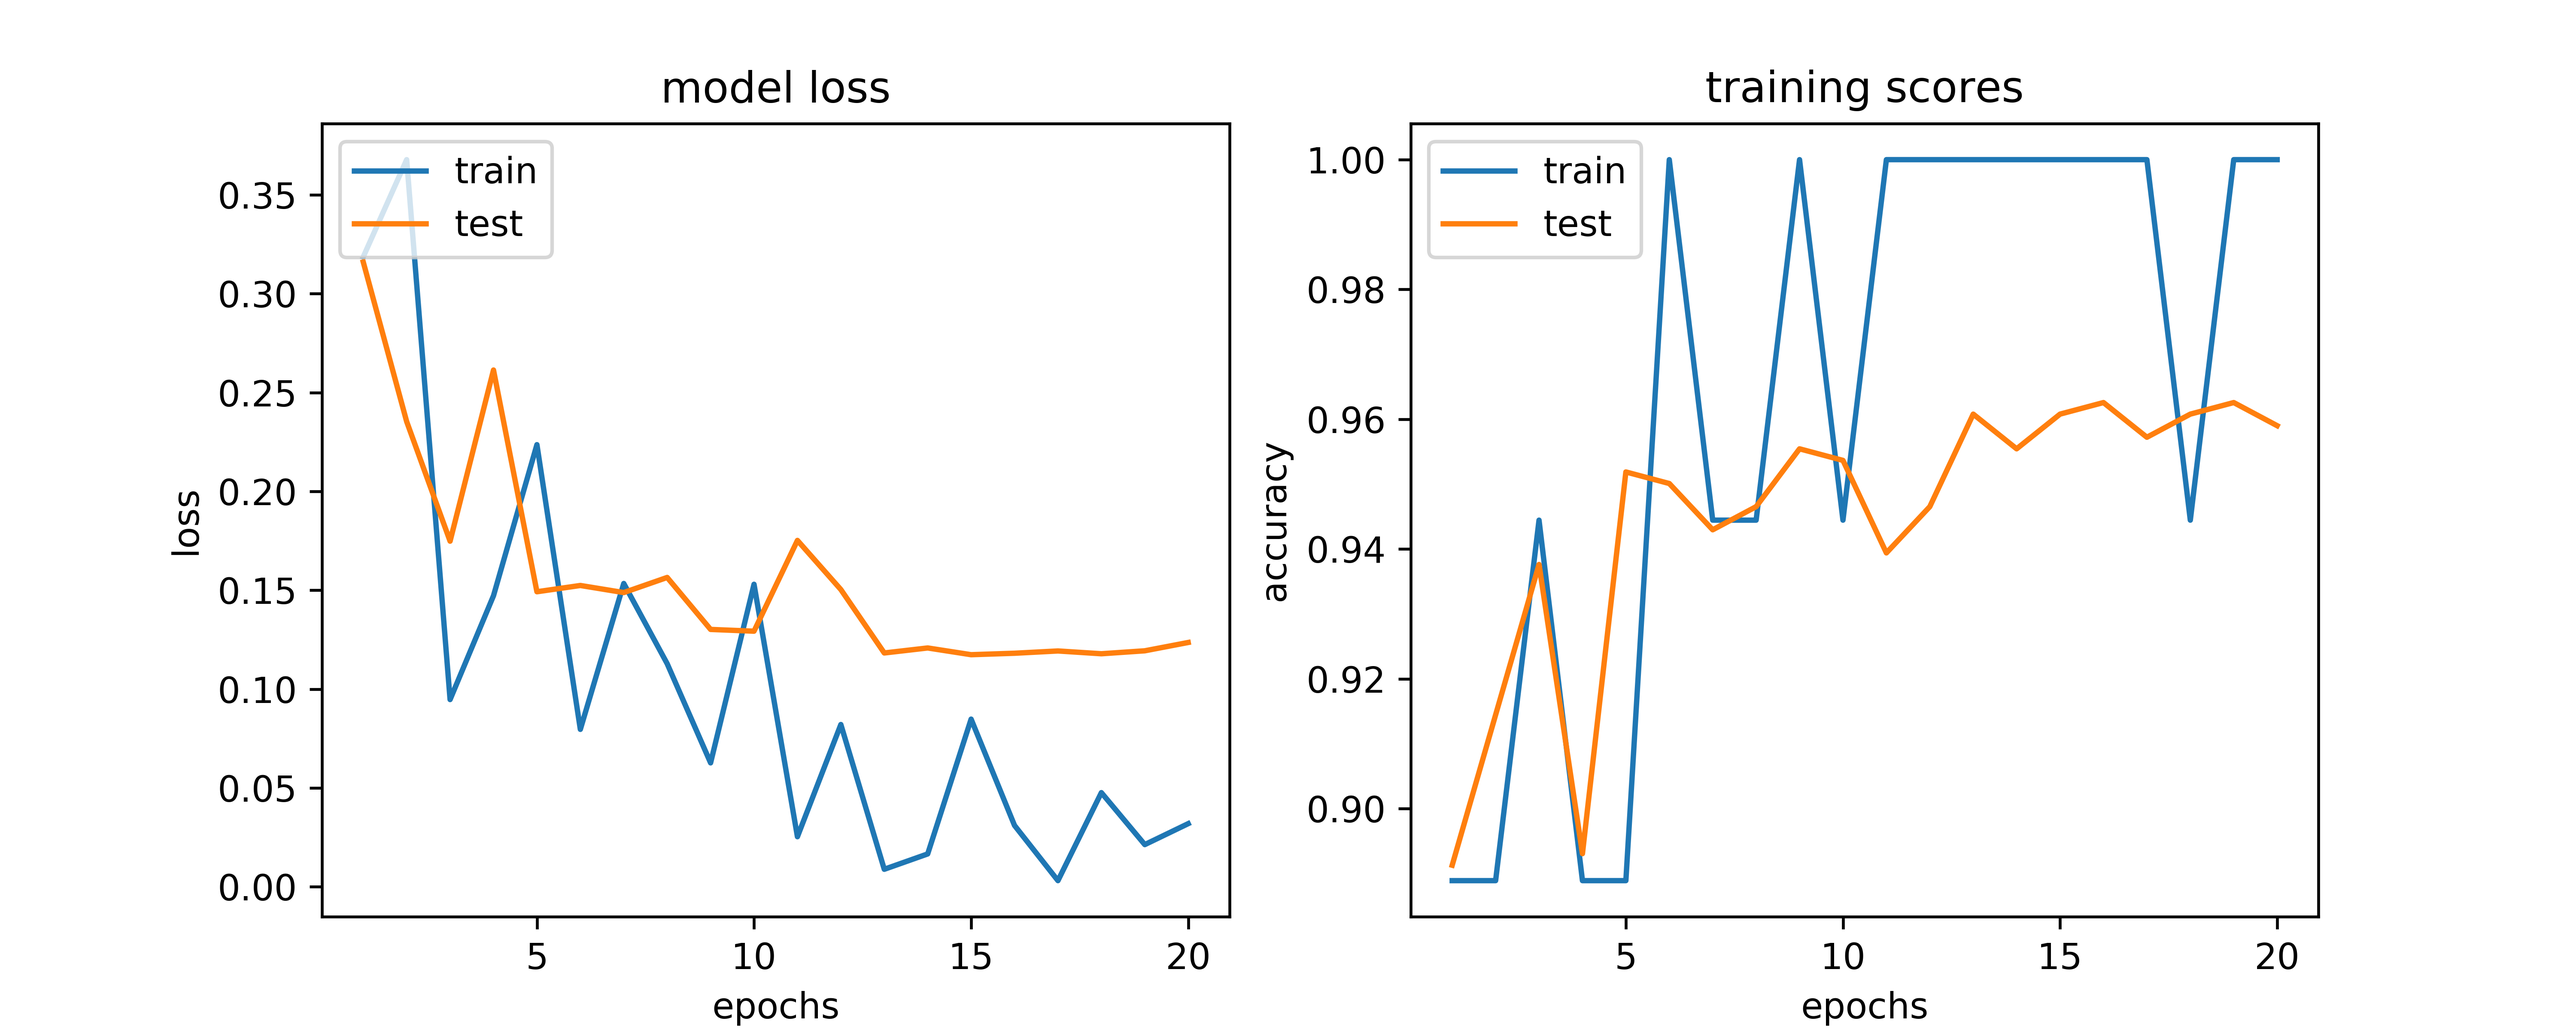
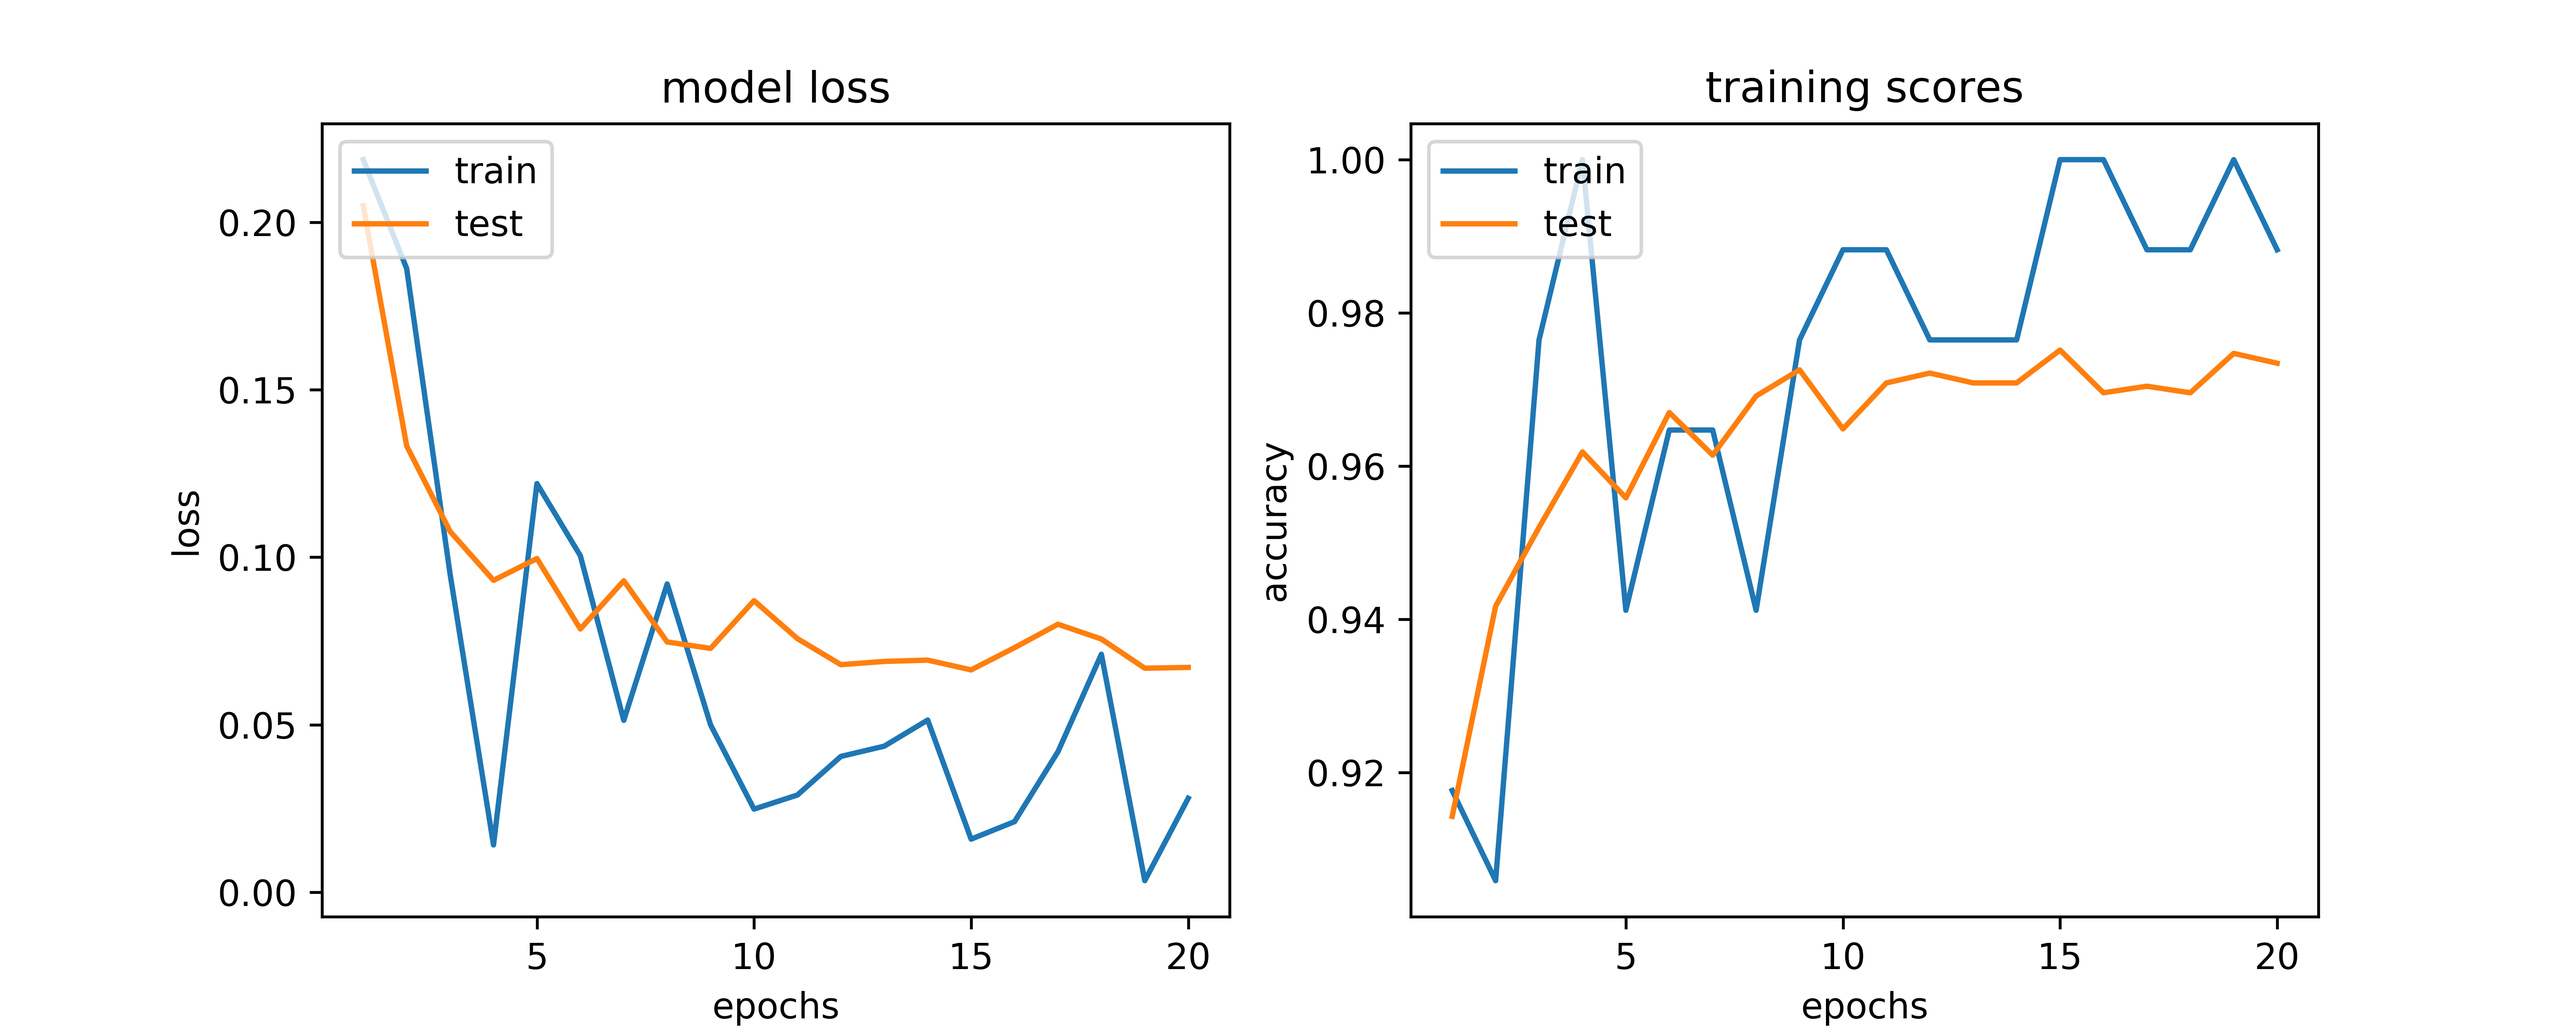
minor modifications to C3D

diff --git a/models/C3D/annotate-folder.py b/models/C3D/annotate-folder.py
@@ -7,6 +7,7 @@ from c3d_detector import C3D_detector
 from feature_extractor import FeatureExtractor
 
 LOG = True
+CLIP_LEN = 60
 
 ## Load C3D feature extractor
 extractor = FeatureExtractor('c3d_sports1m.h5')
@@ -16,7 +17,7 @@ classifier = BinaryClassifier()
 detector = C3D_detector(classifier, checkpoint='checkpoints/model_epoch19.pth')
 
 ## Obtain list of videos
-BASE_DIR = '../data/videos/'
+BASE_DIR = '../../data/videos/'
 video_list = os.listdir(BASE_DIR)
 print("Processing %d videos"%len(video_list))
 
@@ -44,12 +45,12 @@ for video_p in video_list:
 			## Buffer to annotate the original video
 			frame_buffer.append(frame)
 
-			## Collect and predict action for 60 frames
-			if len(frame_buffer) == 60:				
+			## Collect and predict action for CLIP_LEN frames
+			if len(frame_buffer) == CLIP_LEN:				
 				processed_frames = extractor.preprocess_clip_stream(frame_buffer)
 				prediction, score = detector.detect(extractor.extract(processed_frames))
 
-				## Annotate 60 frames and write it out to the output file
+				## Annotate CLIP_LEN frames and write it out to the output file
 				for f in frame_buffer:
 					cv2.putText(f,"%s: %f"%(prediction, score),(30,50),cv2.FONT_HERSHEY_SIMPLEX,1,(255,255,0),2,cv2.LINE_AA)
 					if not LOG:

diff --git a/models/C3D/feature_extractor.py b/models/C3D/feature_extractor.py
@@ -12,6 +12,8 @@ from c3d import C3D
 C3D_MEAN_PATH = 'https://github.com/adamcasson/c3d/releases/download/v0.1/c3d_mean.npy'
 X_CROP, Y_CROP = 350, 30
 
+CLIP_LEN = 30
+
 class FeatureExtractor():
 	
 	def __init__(self, weights_path):
@@ -54,7 +56,12 @@ class FeatureExtractor():
 
 		# Reshape to 128x171
 		reshape_frames = np.zeros((16, 128, 171, 3))
-		frame_ids = [1 + i*3 for i in range(16)]
+
+		if CLIP_LEN == 60:
+			frame_ids = [1 + i*3 for i in range(16)] 
+		else:
+			frame_ids = [i*2 for i in range(15)] + [29] 
+
 		for i, fid in enumerate(frame_ids):
 			img = np.array(frames[fid].resize([171, 128], resample=PIL.Image.BICUBIC))
 			reshape_frames[i, :, :, :] = img
@@ -82,8 +89,8 @@ class FeatureExtractor():
 		Given a path to a clip folder, read in all the frames in the clip using PIL
 		"""
 		frames = []
-		for i in range(1,61):
-			image = Image.open(os.path.join(clip_path, '%d.jpg'%i))
+		for i in range(CLIP_LEN):
+			image = Image.open(os.path.join(clip_path, '%d.jpg'%(i+1)))
 			frames.append(image)
 		return frames
 

diff --git a/models/C3D/extract.py b/models/C3D/extract.py
@@ -8,8 +8,8 @@ def create_dir(dir_name):
 	except:
 		os.mkdir(dir_name)
 
-ROOT_DIR = '../data/compressed_action_frames-60-all'
-FEATURES_DIR = '../data/c3d_features'
+ROOT_DIR = '../../data/compressed_action_frames-30'
+FEATURES_DIR = '../../data/c3d_features'
 create_dir(FEATURES_DIR)
 
 extractor = FeatureExtractor('c3d_sports1m.h5')

diff --git a/models/C3D/train.py b/models/C3D/train.py
@@ -21,7 +21,7 @@ from utils import labels2cat, create_directory
 from dataset import Dataset_C3D 
 from model import BinaryClassifier
 
-ROOT_DIR = "../data/c3d_features"    
+ROOT_DIR = "../../data/c3d_features"    
 CHECKPOINT_DIR = "checkpoints/"
 create_directory(CHECKPOINT_DIR)
 
